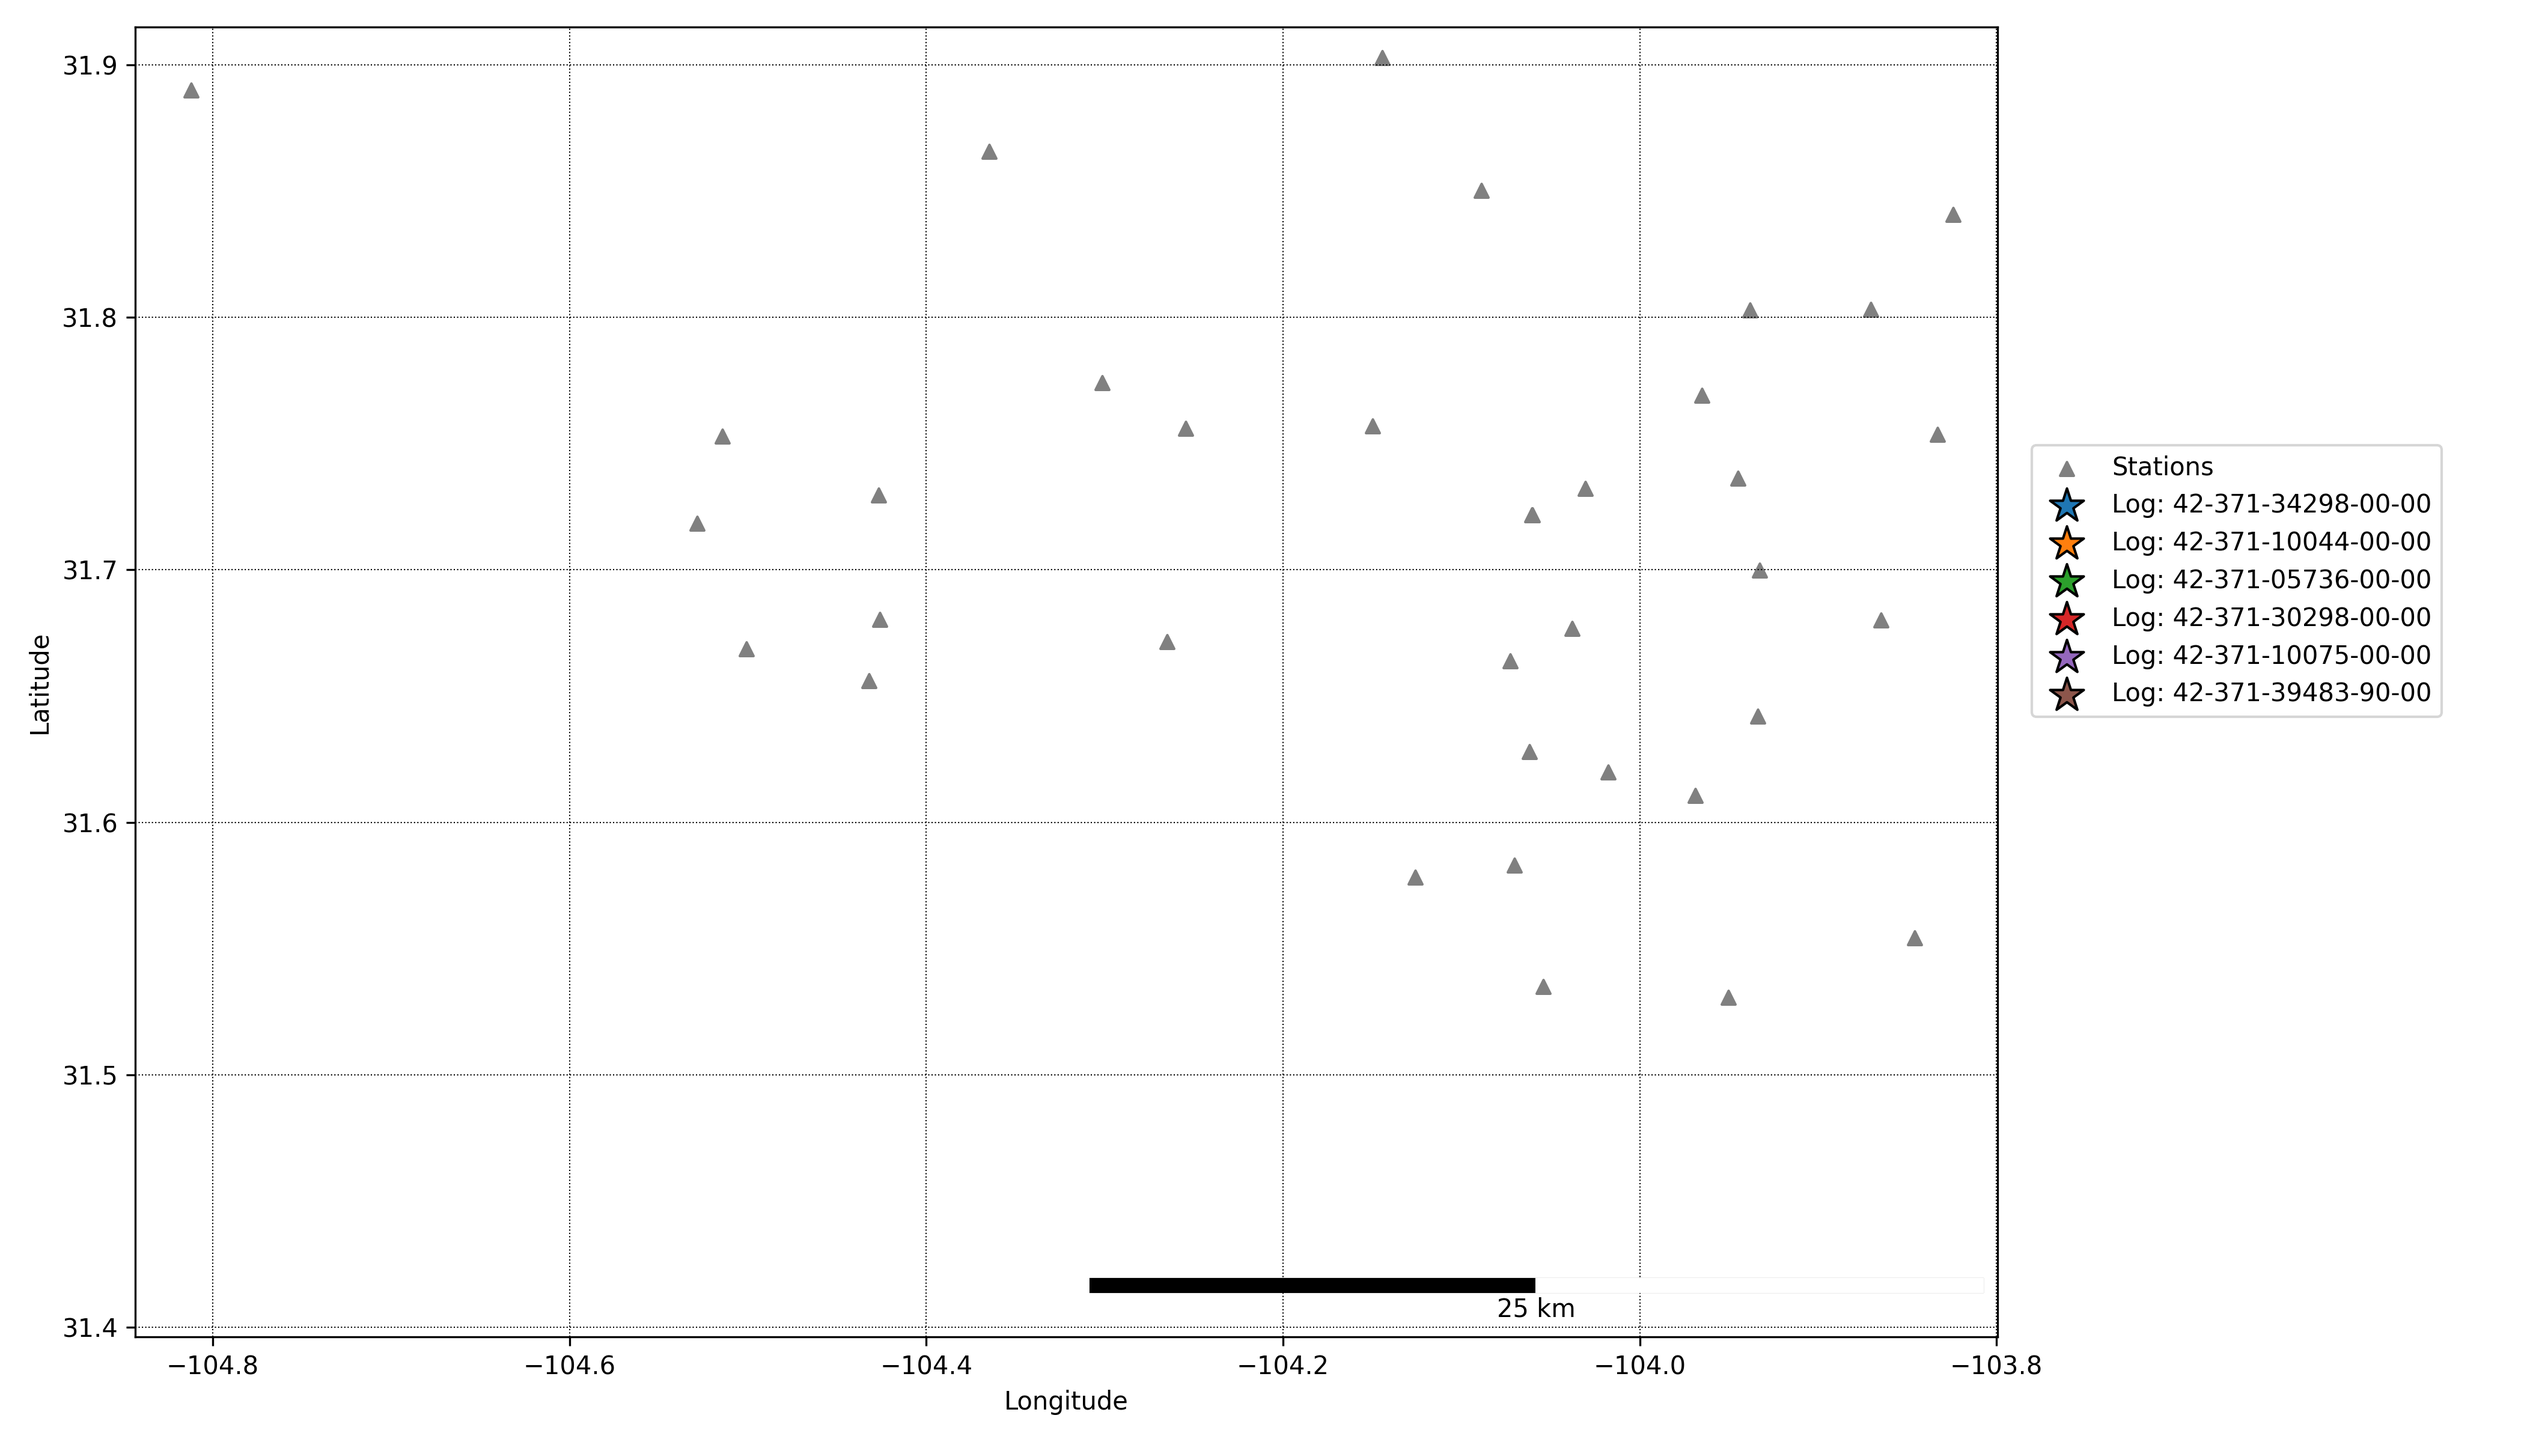
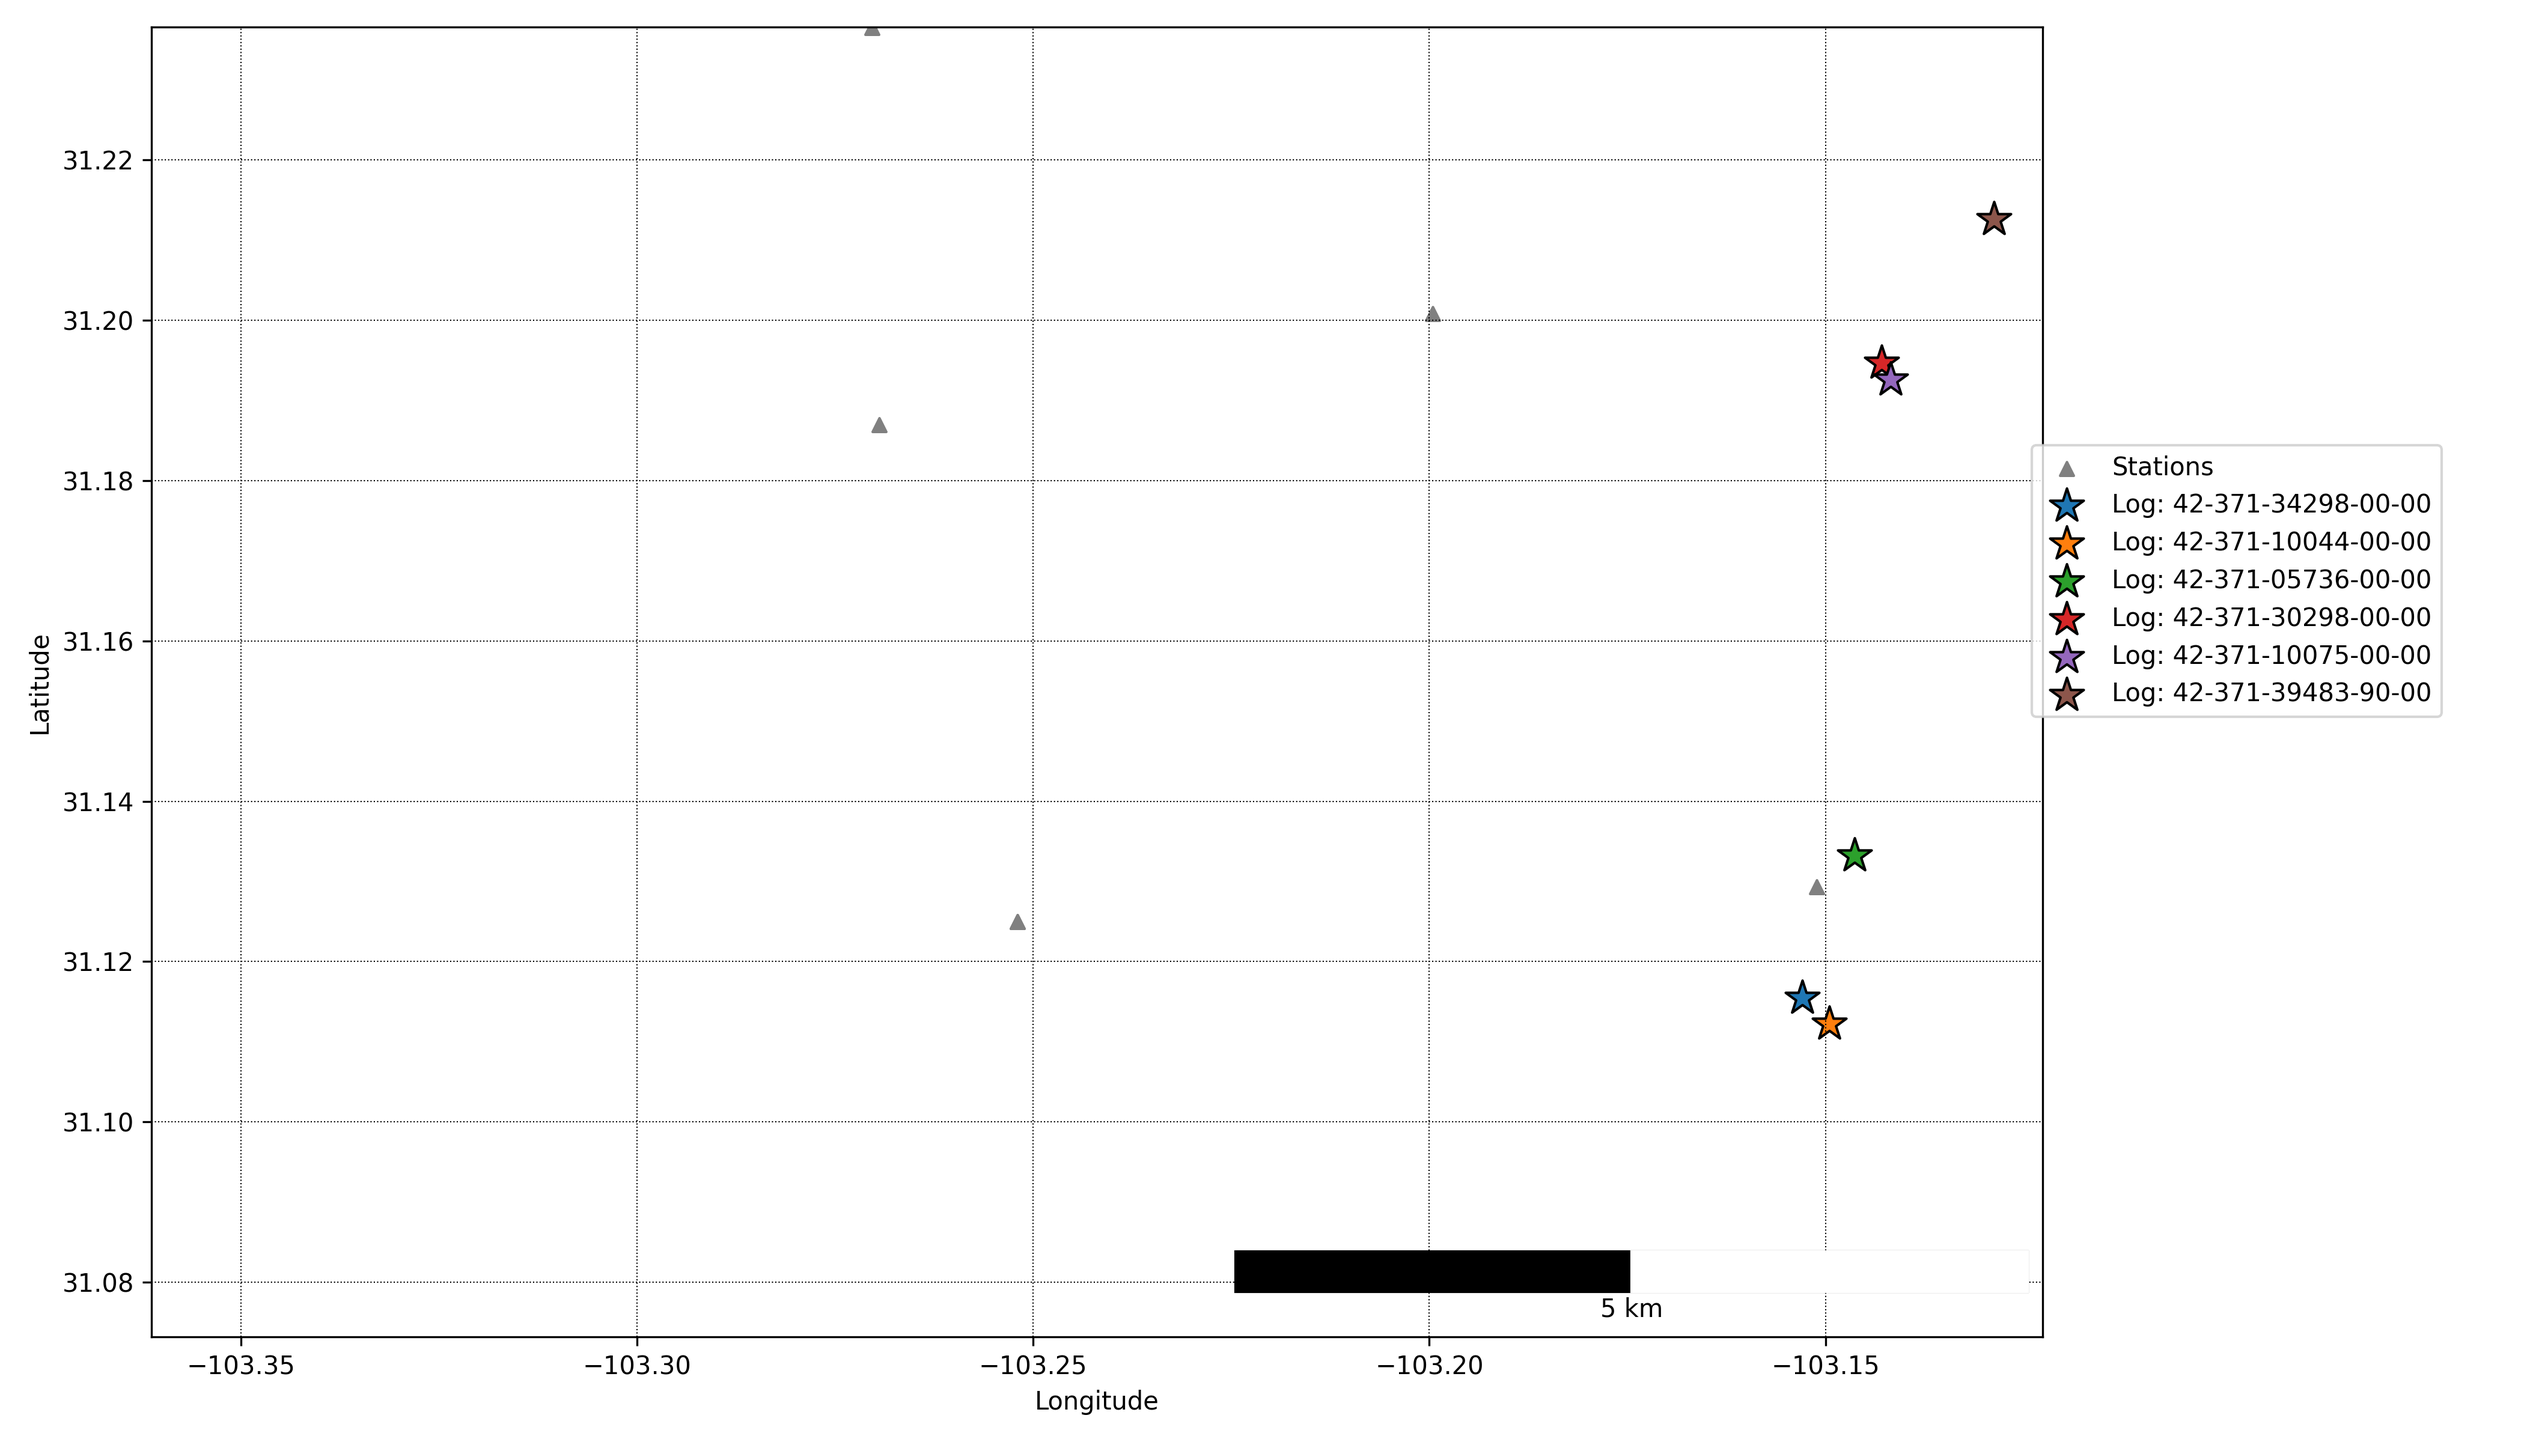
enverus_v1+sheng

diff --git a/10102024/delaware/core/enverus.py b/10102024/delaware/core/enverus.py
@@ -516,6 +516,7 @@ def plot_velocity_logs(
     xlims=None,
     ylims=None,
     region=None,
+    scale_bar=None,
     grid=True,
     formations_key_order=None,
     axes_limit=6,
@@ -634,29 +635,31 @@ def plot_velocity_logs(
         if grid:
             map_ax.grid(color="black", linewidth=0.5, linestyle=":")
 
-        # Add scale bar.
-        scalebar = AnchoredSizeBar(
-            map_ax.transData,
-            0.5,
-            "25 km",
-            loc="lower right",
-            pad=0.5,
-            color="black",
-            frameon=False,
-            size_vertical=0.005,
-        )
-        scalebar2 = AnchoredSizeBar(
-            map_ax.transData,
-            0.25,
-            loc="lower right",
-            label="",
-            pad=0.5,
-            color="white",
-            frameon=False,
-            size_vertical=0.005,
-        )
-        map_ax.add_artist(scalebar)
-        map_ax.add_artist(scalebar2)
+        if scale_bar is not None:
+            distance = scale_bar
+            # Add scale bar.
+            scalebar = AnchoredSizeBar(
+                map_ax.transData,
+                distance/100,
+                f"{int(distance/2)} km",
+                loc="lower right",
+                pad=0.5,
+                color="black",
+                frameon=False,
+                size_vertical=0.005,
+            )
+            scalebar2 = AnchoredSizeBar(
+                map_ax.transData,
+                distance/100/2,
+                loc="lower right",
+                label="",
+                pad=0.5,
+                color="white",
+                frameon=False,
+                size_vertical=0.005,
+            )
+            map_ax.add_artist(scalebar)
+            map_ax.add_artist(scalebar2)
 
         # Add axis labels and legend.
         map_ax.set_xlabel("Longitude")
@@ -842,14 +845,15 @@ if __name__ == "__main__":
     
     stations_path = "/home/emmanuel/ecastillo/dev/delaware/10102024/data_git/stations/delaware_onlystations_160824.csv"
     stations = pd.read_csv(stations_path)
-    region = [-104.843290,-103.799420,
-              31.396100,31.915050]
+    region = [-103.3612838603971795,-103.1225914879300092,
+              31.0731668393013969,31.2365797422041531]
     
     savefig = "/home/emmanuel/ecastillo/dev/delaware/10102024/figures/enverus_sheng/enverus_sheng.png"
     plot_velocity_logs(data,depth="Depth[km]",
                        ylims=(-2,6),
                        xlims=(1.5,6.5),
                        smooth_interval=0.1,
+                       scale_bar=10,
                        region=region,
                        stations=stations,
                        formations=formations,
@@ -894,6 +898,7 @@ if __name__ == "__main__":
     #                    ylims=(-2,6),
     #                    xlims=(1.5,6.5),
     #                    smooth_interval=0.1,
+                        # scale_bar=50,
     #                    region=region,
     #                    stations=stations,
     #                    formations=formations,
